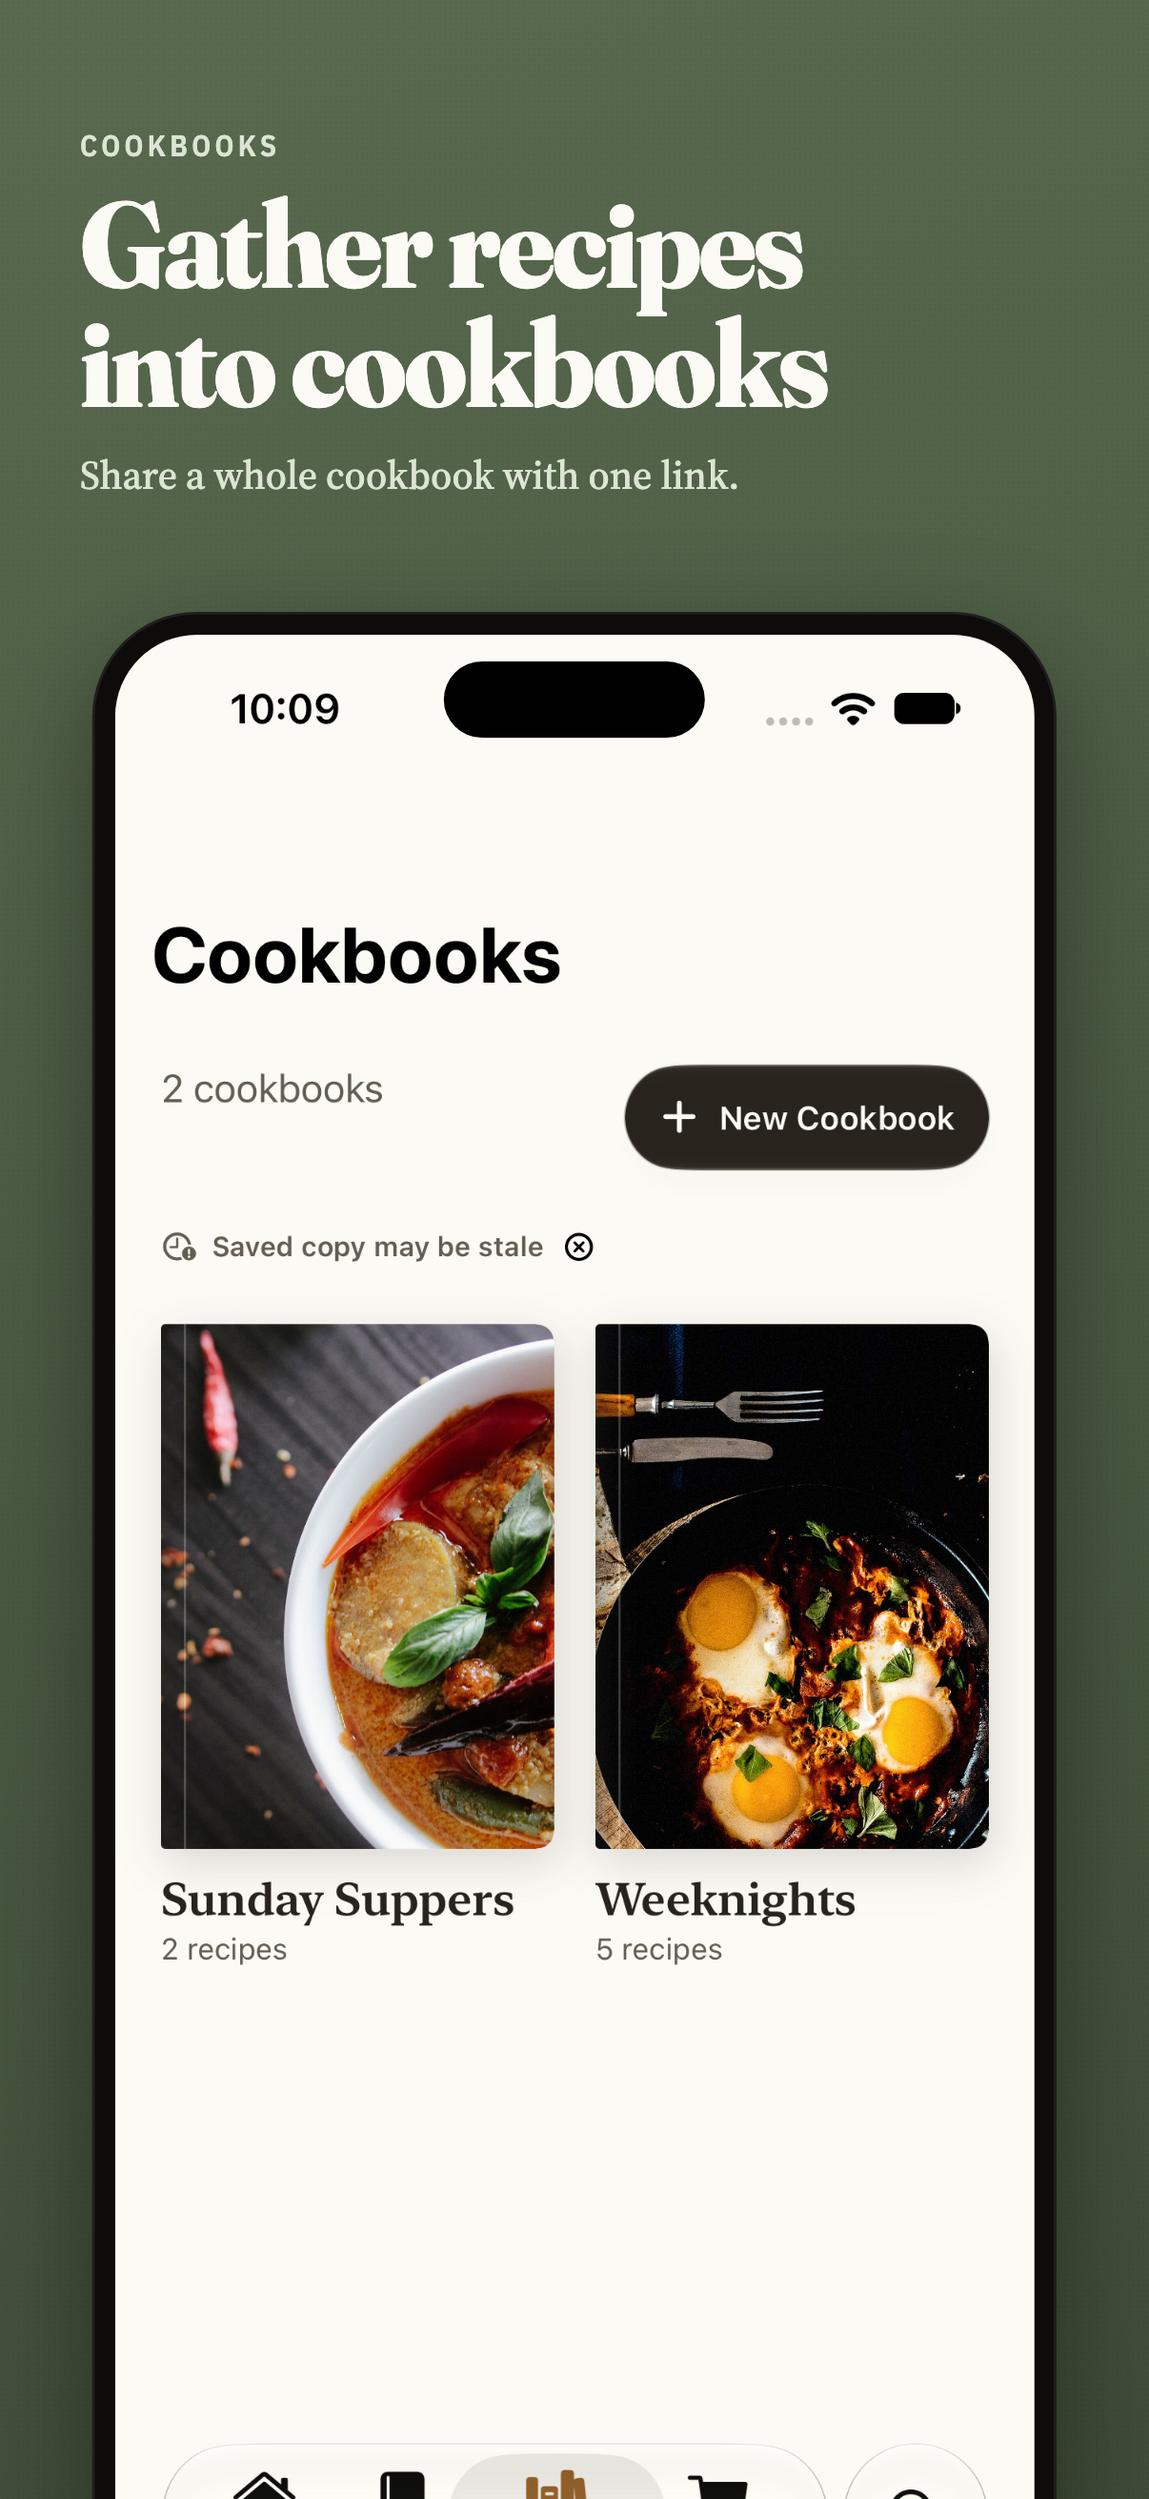
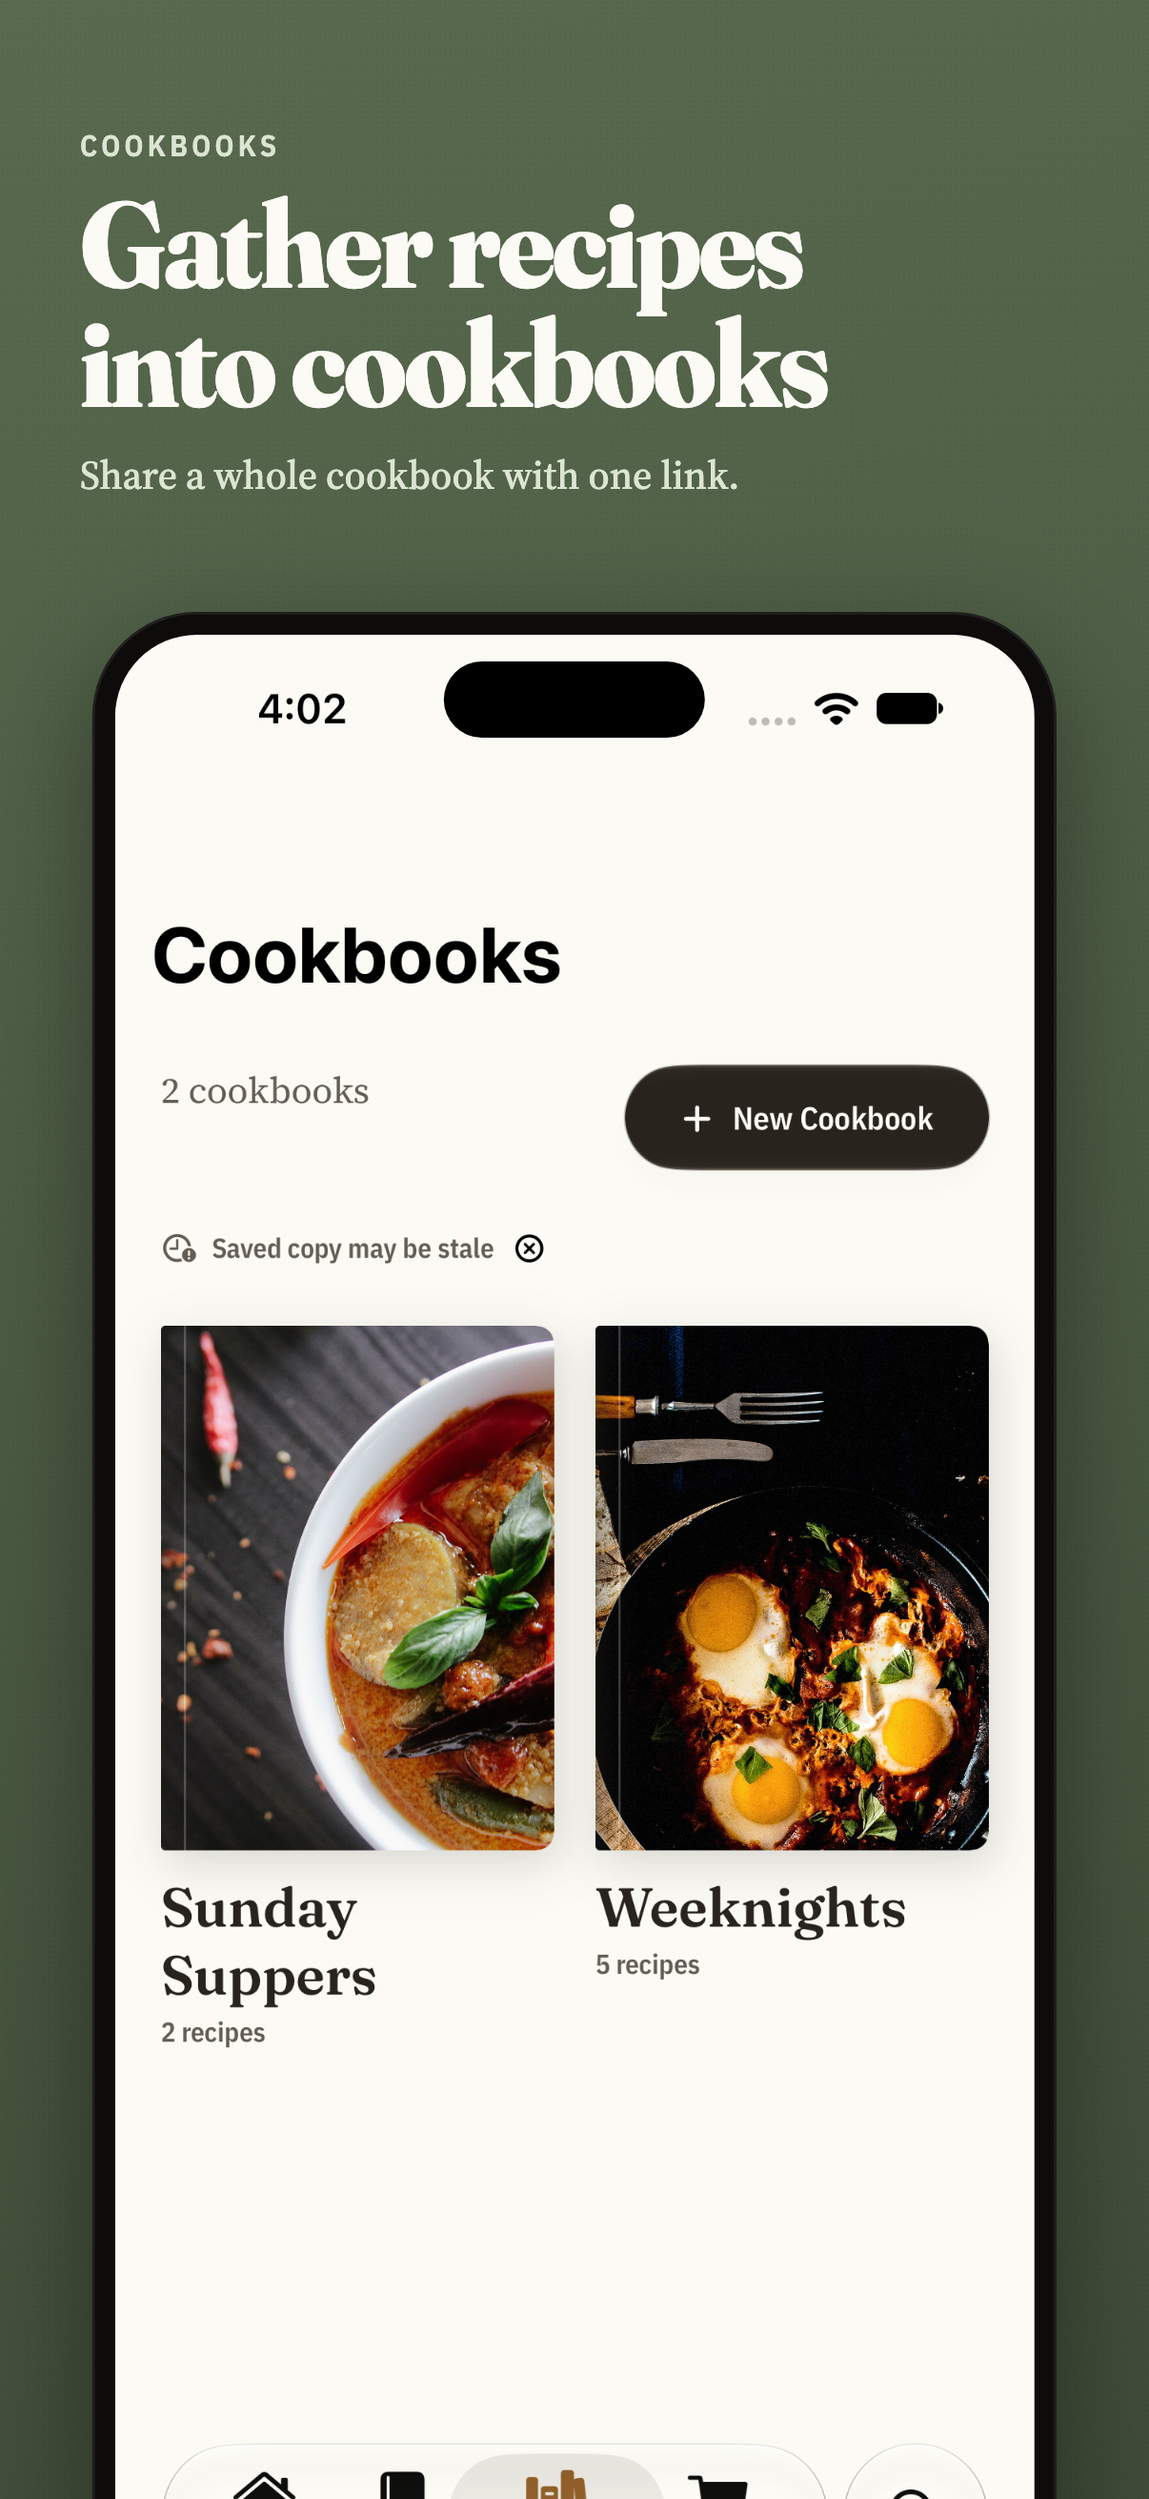
Design language: same look as web, platform behaviour; 1.2 What's New (#244)
* Design language: same look as web, platform behaviour; 1.2 What's New

The native brief now says web and native share one look from ouro-ui-core's
cookbook theme, lists what stays native and what stays web, and records the
deliberate differences. The type scale names the bundled faces and tokens.
The web source pin moves to spoonjoy-v2 main's current design language.

* Design language: profile title, tab bar and pin commit, from review

* Design language: timer ring and cover placeholder rows match the code

* App Store frames: re-shoot iPhone, iPad and Mac for 1.2

21 of 22 frames re-shot from the 1.2 build with the marketing kitchen fixture on
hosted runners; the iPad 13" cook frame keeps 1.1's picture because the iPad
cook-mode capture timed out three times.

diff --git a/scripts/check-native-design-language.rb b/scripts/check-native-design-language.rb
@@ -8,7 +8,7 @@ require "pathname"
 ROOT = Pathname.new(__dir__).join("..").expand_path
 DEFAULT_NATIVE_DOC = ROOT.join("docs/native-design-language.md")
 DEFAULT_WEB_DOC = ROOT.join("docs/source/spoonjoy-v2-design-language.md")
[2 lines of base64/hex data omitted]
 ENV_WEB_DOC = ENV["SPOONJOY_WEB_DESIGN_DOC"]
 
 options = {

diff --git a/docs/native-design-language.md b/docs/native-design-language.md
@@ -1,14 +1,14 @@
 # Spoonjoy Native Apple Design Language
 
-Status: initial native translation brief for iOS 27 and macOS 27.
+Status: native design brief for iOS 27 and macOS 27, as of release 1.2.
 
 ## Source Language
 
 Spoonjoy's product language is **The Kitchen Table**: quiet bone paper, charcoal ink, restrained brass/tomato/herb accents, editorial food photography, cookbook margins, provenance, indexes, receipt-like lists, and cooking instructions that work under kitchen conditions.
 
-The native app should not copy the web UI surface-for-surface. It should preserve the product family while letting Apple platform conventions take over where they are better.
+**Same look as web, platform behaviour.** A screenshot of any Spoonjoy screen on web and on an Apple device, side by side, should look like the same book: the same three typefaces, the same palette, the same eyebrows, section headers, ingredient rows, covers and cook-step page. What differs is only what the platform owns (see "Same Look, Platform Behaviour (1.2)"): on Apple, navigation, Liquid Glass controls, system sheets, haptics, Dynamic Type, the Dynamic Island and Siri.
 
[2 lines of base64/hex data omitted]
 
 ## Invariants To Preserve
 
@@ -27,7 +27,7 @@ Source pin: this brief mirrors `spoonjoy/spoonjoy-v2` `docs/design-language.md` 
 
 - `NavigationStack` and `NavigationSplitView` for structure.
 - Native toolbars instead of custom web nav shells.
-- `TabView` and contextual `safeAreaInset` actions instead of recreating the web mobile dock.
+- `TabView` and contextual `safeAreaInset` actions instead of recreating the web phone tab bar.
 - `List`, `Section`, `DisclosureGroup`, `swipeActions`, and `EditMode` for dense lists.
 - `sheet`, `confirmationDialog`, and `ShareLink` for modal and share behavior.
 - `PhotosPicker`, camera capture, OCR, barcode scanning, and visual intelligence for recipe and grocery capture.
@@ -88,19 +88,23 @@ Between 140° and 150° the hinge's own status decides, and with no angle `parti
 
 ## System (1.1)
 
-Release 1.1 turns the Kitchen Table into a full system with a night appearance. The app follows the system appearance; nothing pins it to light. Native tokens live in `KitchenTableTheme` (app) and `SpoonjoyCore/Design` (motion, haptics, contrast), and every night value is copied from the web `.dark` block in `docs/source/spoonjoy-v2-tailwind-colors.css`, which `scripts/check-native-web-palette-contract.rb` enforces.
+Release 1.1 turns the Kitchen Table into a full system with a night appearance. The app follows the system appearance; nothing pins it to light. Native tokens live in `KitchenTableTheme` (app) and `SpoonjoyCore/Design` (motion, haptics, contrast). Since 1.2 every colour, radius, shadow, space and type value comes from ouro-ui-core's `cookbook` theme through Ouro HX (`OuroTokens.cookbook` and its `extras`), the same source web reads; no colour is written by hand under `Apps/Spoonjoy/Shared/Design/`. The day and night values below are that theme's.
 
-**Type scale.** Serif roles use the system serif, New York. Every role is a Dynamic Type text style, so it scales up to AX5; primary surfaces never set a fixed point size for text.
+**Type scale.** Since 1.2 the roles use web's three typefaces, bundled in the app (all SIL OFL): Fraunces for titles, step names and the cook-step instruction; Source Serif 4 for ingredients, instructions, notes and stories; IBM Plex Sans Condensed for buttons, meta, eyebrows and labels. Each role is one cookbook type token (`sj-type-*`, `KitchenTypeRole`) set with `Font.custom(_:size:relativeTo:)`, so it scales with Dynamic Type up to AX5; a face that fails to register falls back to the system serif or sans. System chrome (tab bar, toolbars, menus, alerts, sheets' chrome) and timer digits stay San Francisco.
 
-| Role | Style | Use |
+| Role | Token | Use |
 | --- | --- | --- |
-| `largeTitle` | Large Title, serif, bold | Screen titles such as Kitchen |
-| `recipeTitle` | Title, serif, semibold | A recipe's name |
-| `cookStep` | Large Title (34 pt base), serif, regular | The step in cook mode, read from arm's length |
-| `story` | Body, serif | Recipe descriptions and notes |
-| `control` | Body, SF, semibold | Buttons and controls |
-| `meta` | Footnote, SF | Times, counts, attributions |
-| `timer` | Large Title, SF light, monospaced digits | Running timers, so digits don't jitter |
+| `largeTitle`, `displayTitle` | `sj-type-display`, Fraunces | Screen titles such as Kitchen |
+| `recipeTitle`, `stepNumeral` | `sj-type-title`, Fraunces | A recipe's name; the cook step's numeral |
+| `sectionTitle`, `indexTitle` | `sj-type-section`, Fraunces | Section headers and index rows |
+| `stepTitle` | `sj-type-step`, Fraunces | A step's name |
+| `cookStep` | `sj-type-display`, Fraunces | The step in cook mode, read from arm's length |
+| `cookInstruction`, `spreadInstruction` | `sj-type-instruction`, Fraunces | The current step's instruction on the recipe page and the Duo spread |
+| `story`, `instructionBody`, `bodyNote` | `sj-type-body`, Source Serif 4 | Stories, instructions, ingredient names |
+| `control`, `objectTitle` | `sj-type-ui`, Plex Sans Condensed | Buttons and controls |
+| `uiLabel`, `meta` | `sj-type-meta`, Plex Sans Condensed | Times, counts, attributions |
+| `eyebrow`, `runningHead` | `sj-type-eyebrow`, Plex Sans Condensed | Uppercase brass eyebrows, tracked `sj-tracking-eyebrow` (0.18em) |
+| timer | SF light, monospaced digits | Running timers, so digits don't jitter |
 
 **Roles in both appearances.** Each role is one dynamic colour that resolves per appearance.
 
@@ -137,6 +141,45 @@ The glass rules:
 **Motion.** Motion uses springs in SwiftUI's response and damping terms (`KitchenSpring`): snappy 0.32/0.86 for small state changes, glide 0.42/0.82 for the tab lens and glass morphs, page turn 0.5/0.88 for cook steps, zoom 0.45/0.9 for a cover opening into its recipe, and bounce 0.35/0.6 for a checked ingredient. With Reduce Motion on, every spring becomes a 0.2 s crossfade and nothing moves: `KitchenMotion.step` makes the decision, `KitchenMotion.animation` and `kitchenAnimation` animate with it, and `kitchenTransition` swaps any slide, zoom or page turn for opacity. The crossfade's length and curve and the opacity rule are Ouro HX's (`OuroMotion`); the named springs are Spoonjoy's own, since Ouro HX has one spring.
 
 **Haptics.** Haptics mark moments, not every tap (`KitchenHapticMoment`, played through `sensoryFeedback`): checking an ingredient or a list item plays selection, turning a step a light impact, starting a timer a medium impact, a timer or cook finishing success, and confirming a destructive action warning. Each moment plays the Ouro HX moment of the same meaning (`OuroHapticMoment`: checked, stepped, started, finished, warned), except a step turn, which keeps Spoonjoy's full-strength light impact because Ouro HX's `turned` is softer.
+
+## Same Look, Platform Behaviour (1.2)
+
+Release 1.2 makes web and native one look. Both read ouro-ui-core's `cookbook` theme: web vendors its generated CSS, and the app reads `OuroTokens.cookbook` through Ouro HX. Neither side writes a colour, radius, space or type value by hand, so a change lands in core once and reaches both.
+
+What converges on web's look:
+- Ingredient rows: serif name, muted serif aisle in sentence case, quantity on the right, no per-row cart icon.
+- Checks: a checked ingredient or list item is brass with a bone tick. Herb stays for cooked and finished.
+- Section headers (`KitchenSectionHeader`): eyebrow, Fraunces title, right-aligned tracked meta, a rule below; a section's action sits on the header line.
+- Button labels in Plex Sans Condensed semibold.
+- Photos at `sj-radius-photo`, covers and thumbnails at `sj-radius-small`, lifted covers with `sj-shadow-soft`.
+
+What web took from native: the cover placeholder (a vellum-to-brass wash with a brass Fraunces initial), and the cook step's reading treatment (Fraunces instruction, brass step numeral, a vellum-and-brass timer ring).
+
+**Stays native.** These follow Apple, not web:
+- Navigation: `NavigationStack`/`NavigationSplitView`, the Liquid Glass tab bar and search, toolbars, back gestures.
+- Sheets, popovers, menus, context menus, alerts and the share sheet.
+- Liquid Glass materials and capsule and circle glass controls.
+- Haptics (`KitchenHaptics`, `OuroHaptics`).
+- The Dynamic Island and the Live Activity layout; timer digits stay SF.
+- Siri, App Intents, Spotlight snippets and widgets' system chrome.
+- Dynamic Type, Reduce Motion, increased contrast (`KitchenContrast`) and VoiceOver behaviour.
+- Duo fold postures and the book spread.
+- The Mac menu bar, windows and keyboard shortcuts.
+
+**Stays web.** The charcoal phone tab bar, the 6px control radius, the browser's own form controls, and print styles. Web's print block keeps its own literal values and is exempt from the no-literal token rule.
+
+**Deliberate differences.** Each is the platform's idiom, not drift:
+
+| Where | Native | Web | Why |
+| --- | --- | --- | --- |
+| Checks | Circle | Rounded square | The filled circle is the iOS checklist idiom; the colour matches. |
+| Profile title | The handle with "@" | The bare username, under a "Chef profile" eyebrow | On native the title is the handle, written as one. |
+| Add to list on one ingredient | Context menu and a named accessibility action ("Add to list"); no swipe action; the page's Add to list button stays | No per-row action | Rows are not in a `List`, so a swipe would fight scrolling and tap-to-check. |
+| Cook-step size on a phone | Display size | Step size below the `md` breakpoint, display size from `md` | A long instruction at display size fills a 393 px browser page and hides the timer. |
+| Timer ring | Digits inside a ring of 184 pt at the default text size, scaling with Dynamic Type; never under 120 pt, or 88 pt where the page leaves less room (`CookTimerRingFace`) | 80 or 96 px, beside the digits | Web keeps its timer row layout. |
+| Cover placeholder for VoiceOver | Hidden: the row or cover is labelled by its recipe title | On the recipe header, visually hidden "Cover coming soon", or "Awaiting first photo" for the recipe's owner | Both show the brass initial and no visible prompt there; web's pantry grid still shows a visible "Cover coming soon". |
+| Section header eyebrow | Hidden from VoiceOver; the header is one element, title as label and meta as value | Read as text | One VoiceOver stop per header. |
+| Kitchen lead recipe | `RecipeLead` on the counter | A full-width table of contents (spoonjoy-v2 #354) | Not yet reconciled; review with the next Kitchen change. |
 
 ## Anti-Patterns
 

diff --git a/docs/source/spoonjoy-v2-design-language.md b/docs/source/spoonjoy-v2-design-language.md
@@ -96,10 +96,10 @@ New structure:
 
 - Full-width bone page with a thin cookbook index rail.
 - Header is a quiet masthead: avatar, kitchen name, counts, actions.
-- Main area is an asymmetric spread:
-  - left column: "On the Counter" lead recipe with large photo, title, note/provenance/action.
-  - right column: compact recipe index with thumbnails, not cards.
-  - lower band: cookbook shelf, where each cookbook looks like a cover/spine object.
+- Main area reads like a cookbook's table of contents, not a feed:
+  - the recipe index gets the full page width: every recipe, newest update first, numbered, with a thumbnail, title and metadata (two columns on desktop, one on a phone). No recipe is held out as a lead, so there is no "Recently Updated" hero.
+  - a chef with no recipes sees "Create your first recipe" in the index's place.
+  - lower band: cookbooks, where each cookbook looks like a cover/spine object.
 - Tabs should be replaced with an index switch or segmented text control only if the content genuinely needs hiding. Prefer showing recipes and cookbooks together because they are different objects, not mutually exclusive dashboards.
 
 ### Main Kitchen Navigation
@@ -107,6 +107,7 @@ New structure:
 Signed-in navigation must use plain kitchen words and stable routes:
 
 - `Kitchen` -> `/`
+- `Recipes` -> `/recipes`
 - `My Recipes` -> `/my-recipes`
 - `Saved Recipes` -> `/saved-recipes`
 - `Cookbooks` -> `/cookbooks`
@@ -114,13 +115,15 @@ Signed-in navigation must use plain kitchen words and stable routes:
 - `Chefs` -> `/chefs`
 - `Kitchen Search` -> `/search`
 
-`/recipes` remains the broader `Explore Recipes` index, not the signed-in cook's authored drawer.
+`Recipes` (`/recipes`) is the broader index of every public recipe, not the signed-in cook's authored drawer; it stays reachable from the desktop navigation and, on a phone, from the Recipes switch's `Everyone`.
+
+Back means back: the recipe page's `Recipes` link returns to the nearest earlier in-app page that is not this recipe, its edit or step forms, its cook mode or the create form, and go to `/recipes` only when no such page is known (for example, the recipe was opened directly). It stays a real link to `/recipes`, so middle click and open-in-new-tab still work.
 
 Saved Recipes are recipes saved through cookbooks owned by the signed-in cook. That includes the cook's own recipes when they have saved them into one of their cookbooks. It does not mean every recipe the cook wrote.
 
 Global search stays at `/search` with scopes for all, recipes, cookbooks, chefs, and shopping list. The personal drawer filters are local filters for the current drawer; they do not create a second search system.
 
-The mobile dock stays small and glass/material-like: `My Kitchen`, create, `My Recipes`, `Shopping List`, and a `Pantry drawer` affordance. The Pantry drawer contains `My Recipes`, `Saved Recipes`, `Cookbooks`, `Shopping List`, `Chefs`, and `Kitchen Search`.
+The phone tab bar is navigation only and the same on every page, the iOS 26 tab bar pattern the iPhone app uses too. Signed in it holds four equal tabs, `Kitchen`, `Recipes`, `Cookbooks` and `Shopping`, each an icon over a short label, with `Search` in its own circle beside them; signed out it holds `Home`, `Recipes` and `Log in`, with `Search`. The tab that owns the page is current: Kitchen owns account settings, chefs and profiles, and Recipes owns every recipe list and recipe page. Both surfaces are solid charcoal, so no page text shows through. Page actions (create, add, save, share, edit, cook) live on the page, never in the tab bar, so a tab never changes meaning between pages. On a phone the Recipes tab opens `My Recipes`, and a switch at the top of each recipe list moves between `Mine`, `Saved` and `Everyone`; the Kitchen page links to `Chefs` and account settings, and account settings holds `Log out`.
 
 ### Recipe Detail
 
@@ -163,8 +166,7 @@ Settings can remain Catalyst-like:
 ## Components To Build
 
 - `KitchenMasthead`: identity, counts, primary actions.
-- `RecipeLead`: one dominant recipe object with large image and editorial caption.
-- `RecipeIndex`: compact thumb/title/metadata rows.
+- `RecipeIndex`: the kitchen's table of contents; numbered thumb/title/metadata rows, full width.
 - `CookbookShelf`: horizontal or wrapped shelf of cookbook cover objects.
 - `CookbookCover`: book-like object, not a card.
 - `ReceiptList`: shopping-list and ingredient-list primitive.
@@ -185,7 +187,7 @@ The first real slice should be the logged-in kitchen page because it is the page
 
 Scope:
 
-1. Replace the logged-in `/` layout with `KitchenMasthead`, `RecipeLead`, `RecipeIndex`, and `CookbookShelf`.
+1. Replace the logged-in `/` layout with `KitchenMasthead`, `RecipeIndex`, and `CookbookShelf`.
 2. Remove tab-first structure from the kitchen page.
 3. Remove `sj-photo-tile` as the generic recipe-card default on this route.
 4. Tighten radius tokens to the semantic scale above.
